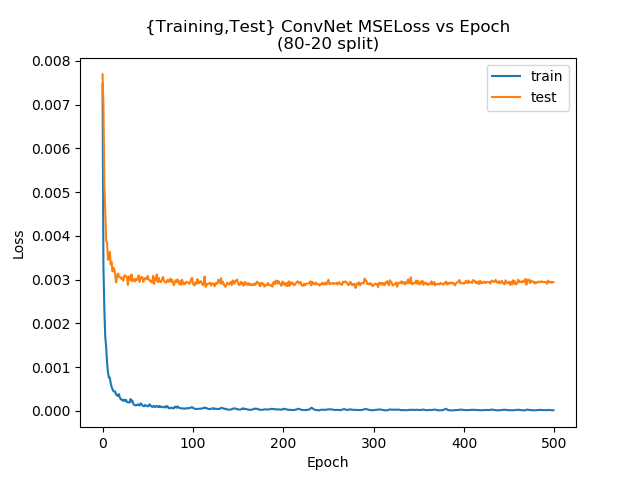
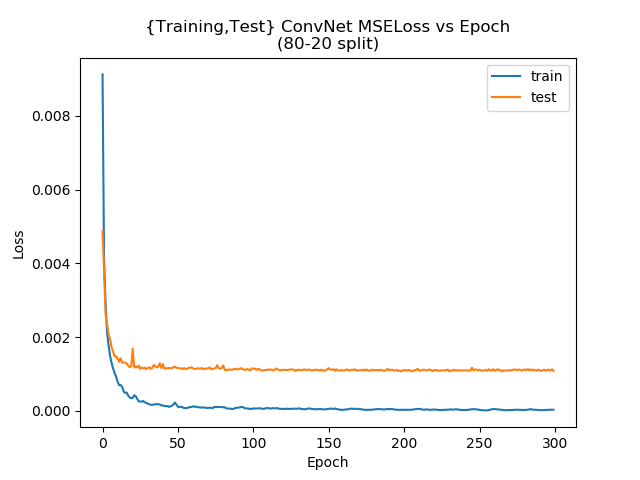
shuffle set before train/test split

diff --git a/EX1/Q3Ben/train.py b/EX1/Q3Ben/train.py
@@ -1,4 +1,5 @@
 import argparse
+import random
 import matplotlib.pyplot as plt
 import torch
 import torch.nn as nn
@@ -9,7 +10,7 @@ from model import FacialDataset, FacialNet2, FacialNet3
 parser = argparse.ArgumentParser()
 parser.add_argument('--question', type=int, default=2, help='Question section')
 parser.add_argument('--dpath', type=str, default='training.csv', help='length of a bit sequence')
-parser.add_argument('--epochs', type=int, default=500, help='Number of epochs to train on')
+parser.add_argument('--epochs', type=int, default=300, help='Number of epochs to train on')
 parser.add_argument('--lr', type=float, default=0.001, help='Learning rate')
 parser.add_argument('--batch_size', type=int, default=16, help='Batch size')
 parser.add_argument('--no_gpu', action='store_true', help='Disable gpu usage')
@@ -28,6 +29,7 @@ def run(device, question):
     criterion = nn.MSELoss()
 
     idxs, split = list(range(len(dataset))), round(0.8*len(dataset))
+    random.shuffle(idxs)
     train_set = Subset(dataset, idxs[:split])
     test_set = Subset(dataset, idxs[split:])
     train_loader = DataLoader(train_set, batch_size=args.batch_size, shuffle=True)
@@ -74,6 +76,7 @@ if __name__ == '__main__':
         dev = torch.device('cuda')
     else:
         dev = torch.device('cpu')
+    random.seed(0)
 
     # Fully Connected Run
     _, train_loss, test_loss = run(dev, 2)
